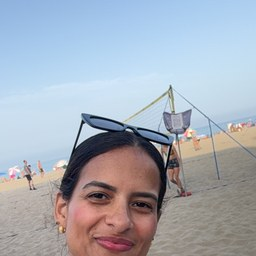
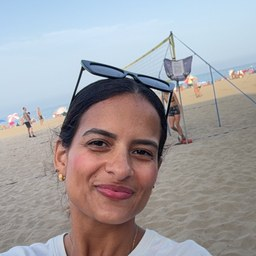
Fix RenataOS dark mode colors (was still cool slate-blue, unconverted) + updated photo crop
Chat panel was one of the components not yet migrated to the Opção B
ink-* dark tokens — text was still dark:text-slate-100/200/400 (a cool
blue-gray) against remaining hardcoded #1E1715/#2C221E/#130E0D
backgrounds, which read as jarring/blue and tiring on the eyes next to
the rest of the app's warm ink palette. Converted panel bg, borders,
message bubbles, input, and SOS quick-action button to ink/ink-raised/
ink-hairline/ink-text/ink-text-muted/rosegold-light, matching how
DailyMissionView, HomeView, etc. were already converted.

Also swapped in Renata's re-cropped photo (better centered per her
latest crop).

diff --git a/src/components/RenataOSChat.tsx b/src/components/RenataOSChat.tsx
@@ -283,22 +283,22 @@ export default function RenataOSChat({ lang, progress, currentDayNumber, onOpenS
               initial={{ y: 40, opacity: 0 }}
               animate={{ y: 0, opacity: 1 }}
               exit={{ y: 40, opacity: 0 }}
-              className="relative w-full sm:max-w-md h-[85vh] sm:h-[600px] bg-[#FAF8F5] dark:bg-[#1E1715] rounded-t-3xl sm:rounded-3xl border border-rosegold/20 shadow-rosegold flex flex-col overflow-hidden"
+              className="relative w-full sm:max-w-md h-[85vh] sm:h-[600px] bg-[#FAF8F5] dark:bg-ink rounded-t-3xl sm:rounded-3xl border border-rosegold/20 dark:border-ink-hairline shadow-rosegold dark:shadow-none flex flex-col overflow-hidden"
             >
               {/* Header */}
-              <div className="flex items-center justify-between p-5 border-b border-rose-100/20 dark:border-rosegold/10">
+              <div className="flex items-center justify-between p-5 border-b border-rose-100/20 dark:border-ink-hairline">
                 <div className="flex items-center gap-3">
                   <div className="h-10 w-10 rounded-full overflow-hidden shrink-0 border-2 border-rosegold/40 dark:border-rosegold-light/40">
                     <img src="/assets/images/minhafoto.jpg" alt="Renata" className="h-full w-full object-cover" />
                   </div>
                   <div>
-                    <h3 className="text-sm font-bold text-slate-800 dark:text-slate-100 font-sans">{t.title}</h3>
-                    <p className="text-[10px] text-slate-400 font-sans">{t.subtitle}</p>
+                    <h3 className="text-sm font-bold text-slate-800 dark:text-ink-text font-sans">{t.title}</h3>
+                    <p className="text-[10px] text-slate-400 dark:text-ink-text-muted font-sans">{t.subtitle}</p>
                   </div>
                 </div>
                 <button
                   onClick={() => setIsOpen(false)}
-                  className="p-2 rounded-full text-slate-400 hover:text-rosegold hover:bg-rose-50/50 dark:hover:bg-rosegold/10 transition cursor-pointer"
+                  className="p-2 rounded-full text-slate-400 dark:text-ink-text-muted hover:text-rosegold dark:hover:text-rosegold-light hover:bg-rose-50/50 dark:hover:bg-rosegold-light/10 transition cursor-pointer"
                 >
                   <X className="h-4 w-4" />
                 </button>
@@ -317,7 +317,7 @@ export default function RenataOSChat({ lang, progress, currentDayNumber, onOpenS
                       className={`max-w-[80%] px-4 py-2.5 rounded-2xl text-sm font-sans leading-relaxed ${
                         msg.role === 'user'
                           ? 'bg-rosegold text-white rounded-br-sm'
-                          : 'bg-white dark:bg-[#2C221E] border border-rose-100/20 dark:border-rosegold/10 text-slate-700 dark:text-slate-200 rounded-bl-sm'
+                          : 'bg-white dark:bg-ink-raised border border-rose-100/20 dark:border-ink-hairline text-slate-700 dark:text-ink-text rounded-bl-sm'
                       }`}
                     >
                       {msg.text}
@@ -329,7 +329,7 @@ export default function RenataOSChat({ lang, progress, currentDayNumber, onOpenS
                     <span className="h-6 w-6 rounded-full overflow-hidden shrink-0 border border-rose-100/40 dark:border-rosegold-light/30">
                       <img src="/assets/images/minhafoto.jpg" alt="Renata" className="h-full w-full object-cover" />
                     </span>
-                    <div className="bg-white dark:bg-[#2C221E] border border-rose-100/20 dark:border-rosegold/10 px-4 py-2.5 rounded-2xl rounded-bl-sm text-sm text-slate-400 font-sans">
+                    <div className="bg-white dark:bg-ink-raised border border-rose-100/20 dark:border-ink-hairline px-4 py-2.5 rounded-2xl rounded-bl-sm text-sm text-slate-400 dark:text-ink-text-muted font-sans">
                       •••
                     </div>
                   </div>
@@ -340,7 +340,7 @@ export default function RenataOSChat({ lang, progress, currentDayNumber, onOpenS
               <div className="px-5 pb-2">
                 <button
                   onClick={() => { setIsOpen(false); onOpenSos(); }}
-                  className="w-full flex items-center justify-center gap-2 py-2.5 rounded-xl bg-rose-50/60 dark:bg-rosegold/5 border border-rose-100/30 dark:border-rosegold/10 text-xs font-sans font-semibold text-rosegold transition cursor-pointer hover:bg-rose-50 dark:hover:bg-rosegold/10"
+                  className="w-full flex items-center justify-center gap-2 py-2.5 rounded-xl bg-rose-50/60 dark:bg-transparent border border-rose-100/30 dark:border-rosegold-light/30 text-xs font-sans font-semibold text-rosegold dark:text-rosegold-light transition cursor-pointer hover:bg-rose-50 dark:hover:bg-rosegold-light/10"
                 >
                   <HeartHandshake className="h-3.5 w-3.5" />
                   {t.sosPrompt} {t.sosButton}
@@ -348,14 +348,14 @@ export default function RenataOSChat({ lang, progress, currentDayNumber, onOpenS
               </div>
 
               {/* Input row */}
-              <div className="p-5 pt-2 border-t border-rose-100/20 dark:border-rosegold/10 flex items-center gap-2">
+              <div className="p-5 pt-2 border-t border-rose-100/20 dark:border-ink-hairline flex items-center gap-2">
                 <input
                   type="text"
                   value={input}
                   onChange={(e) => setInput(e.target.value)}
                   onKeyDown={(e) => e.key === 'Enter' && handleSend()}
                   placeholder={t.placeholder}
-                  className="flex-1 text-sm bg-white dark:bg-[#130E0D] border border-rose-100/20 dark:border-rosegold/10 focus:border-rosegold focus:outline-none focus:ring-1 focus:ring-rosegold rounded-xl px-4 py-3 text-slate-700 dark:text-slate-200 transition-all"
+                  className="flex-1 text-sm bg-white dark:bg-ink-raised border border-rose-100/20 dark:border-ink-hairline focus:border-rosegold dark:focus:border-rosegold-light focus:outline-none focus:ring-1 focus:ring-rosegold dark:focus:ring-rosegold-light rounded-xl px-4 py-3 text-slate-700 dark:text-ink-text placeholder:dark:text-ink-text-muted transition-all"
                 />
                 <button
                   onClick={handleSend}
